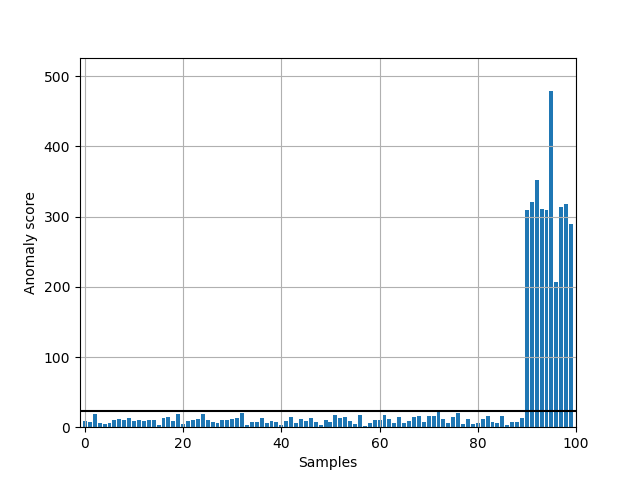
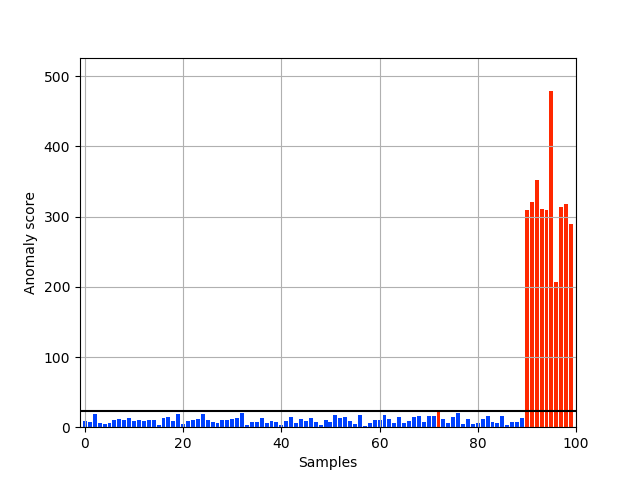
update plot_anomaly_score function

Changed region(s): [[0.125, 0.1875, 0.9062, 0.9062]]

diff --git a/kenchi/utils/pyplot.py b/kenchi/utils/pyplot.py
@@ -56,6 +56,9 @@ def plot_anomaly_score(
 
     xlocs        = np.arange(n_samples)
     scores       = det.anomaly_score(X, y)
+    color        = np.where(
+        det.detect(X, y).astype(np.bool), '#ff2800', '#0041ff'
+    )
 
     if ax is None:
         _, ax    = plt.subplots(1, 1)
@@ -78,7 +81,7 @@ def plot_anomaly_score(
     ax.set_xlim(xlim)
     ax.set_ylim(ylim)
     ax.grid(grid)
-    ax.bar(xlocs, scores, align='center', **kwargs)
+    ax.bar(xlocs, scores, align='center', color=color, **kwargs)
     ax.hlines(det.threshold_, *xlim)
 
     return ax
